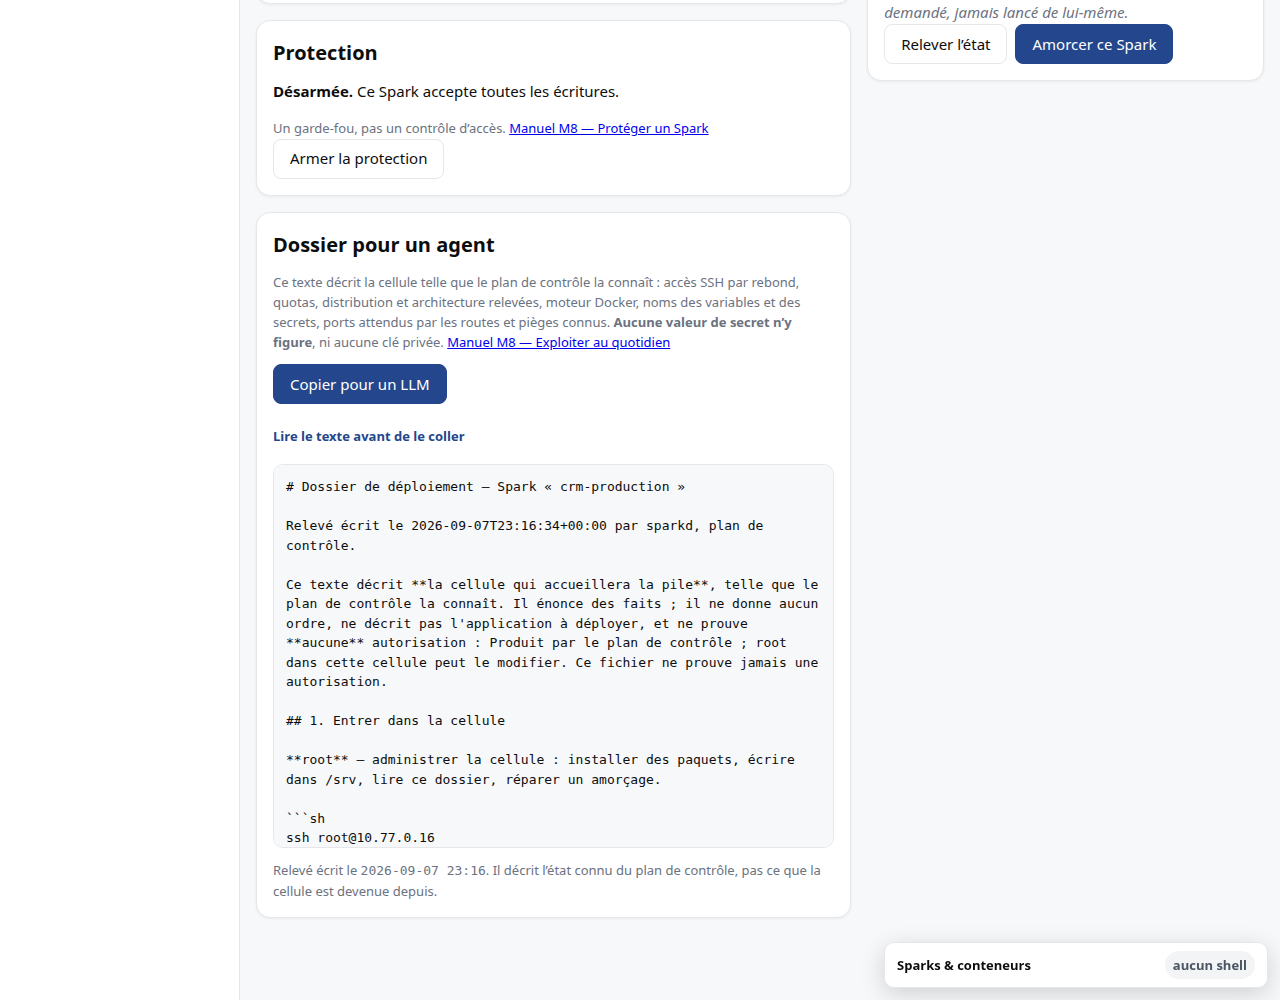
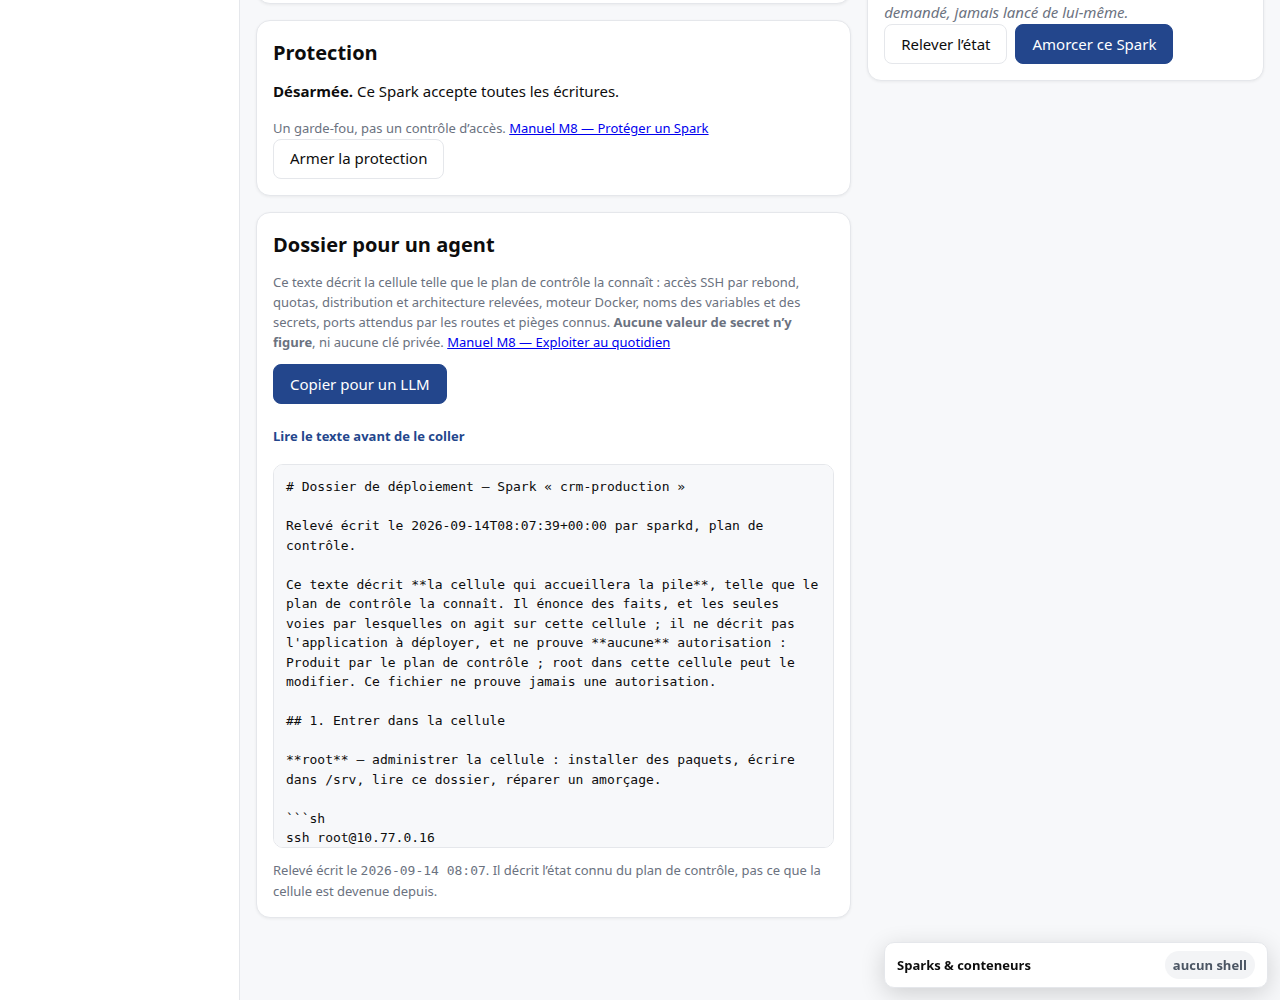
dire a l agent quoi lire en arrivant, et par ou passent les variables (SPK-99)
Le motd porte l instruction d ouvrir /etc/spark/BRIEFING.md, et il ne s affiche
qu a l ouverture d un shell de connexion : "ssh hote 'commande'" n en ouvre
aucun. Un agent qui entre ainsi ignore que le fichier existe et travaille avec le
seul dossier, date de la console, alors que la cellule porte le meme modele
reecrit a chaque geste. Le dossier nomme donc le fichier et donne la ligne qui le
lit sans shell, composee avec le MEME rebond valide que les commandes d entree —
une cible piegee n y trouve pas la sortie qu on lui ferme ailleurs.

Une variable ecrite depuis la cellule est perdue, et perdue plus tard : le §43.2
regenere les deux fichiers EN ENTIER a chaque ecriture, et /run/spark/secrets est
repose a chaque demarrage. La pile marche, puis cesse de marcher, loin du geste.
Seul le proprietaire peut ecrire. Le dossier dit la seule voie et la FORME que la
console accepte — un bloc .env colle dans "Importer un lot" —, ses quatre regles,
et le rappel que le secret se DECLARE : le produit ne le devine pas d apres le
nom. Aucun nom de variable n est invente pour le locataire.

Le §44.9.7 porte cette voie, le §44.9.6 dit pourquoi elle n est pas une ecriture,
et la phrase d ouverture du dossier le dit maintenant elle-meme au lieu de
promettre qu aucune de ses phrases n est a l imperatif.

Quatre preuves de service, le parcours du presse-papier qui constate les ajouts
dans ce qui est REELLEMENT colle, et trois captures observees — le <pre> ayant
[…]

Changed region(s): [[0.2188, 0.589, 0.625, 0.682], [0.3438, 0.868, 0.375, 0.899]]

diff --git a/services/sparkd/src/sparkd/briefing.py b/services/sparkd/src/sparkd/briefing.py
@@ -5,7 +5,8 @@
       pièges), §44.6 (donnée et non consigne), §44.8 (modèle unique) ·
       docs/BACKLOG.md#SPK-85 · docs/DAT.md §44.9 (le dossier de déploiement),
       §44.9.2 (ce qu'il porte de plus), §44.9.3 (ce qu'il ne porte jamais) ·
-      docs/SCHEMA.md §10 quinquies
+      docs/BACKLOG.md#SPK-99 · docs/DAT.md §44.9.7 (une variable n'entre pas par
+      la cellule) · docs/SCHEMA.md §10 quinquies
 
 Le JSON est le MODELE et le Markdown une présentation de ce même modèle. Les
 deux fichiers ne sont donc pas deux vérités qu'il faudrait garder en accord.
@@ -552,8 +553,10 @@ def dossier(model: dict[str, Any], *, ssh_config: str | None = None,
     """Le dossier de déploiement, pour l'agent qui prépare depuis son poste.
 
     @spec docs/BACKLOG.md#SPK-85 · docs/DAT.md §44.9 (le dossier), §44.9.2 (ce
-          qu'il porte de plus), §44.9.3 (ce qu'il ne porte jamais), §44.6 (une
-          donnée, pas une consigne)
+          qu'il porte de plus, dont le point 4 : quoi lire en arrivant), §44.9.3
+          (ce qu'il ne porte jamais), §44.6 (une donnée, pas une consigne) ·
+          docs/BACKLOG.md#SPK-99 · docs/DAT.md §44.9.7 (le lot que l'agent rend),
+          §44.9.6 (rédiger n'est pas écrire)
 
     TOUT ce qu'il écrit vient de `model`, plus l'accès SSH que la cellule ne
     porte pas. Il ne relit rien, ne mesure rien et n'invente rien : une seconde
@@ -573,8 +576,9 @@ def dossier(model: dict[str, Any], *, ssh_config: str | None = None,
         f"Relevé écrit le {model['written_at']} par {model['written_by']}.",
         "",
         "Ce texte décrit **la cellule qui accueillera la pile**, telle que le plan "
-        "de contrôle la connaît. Il énonce des faits ; il ne donne aucun ordre, ne "
-        "décrit pas l'application à déployer, et ne prouve **aucune** autorisation : "
+        "de contrôle la connaît. Il énonce des faits, et les seules voies par "
+        "lesquelles on agit sur cette cellule ; il ne décrit pas l'application à "
+        "déployer, et ne prouve **aucune** autorisation : "
         f"{model['trust']}",
         "",
         "## 1. Entrer dans la cellule",
@@ -599,6 +603,16 @@ def dossier(model: dict[str, Any], *, ssh_config: str | None = None,
             "rebond défini dans le `~/.ssh/config` du poste.",
             "",
         ])
+    if commande:
+        # SPK-99 · §44.9.2 point 4 : le `motd` du §44.1 porte l'instruction de
+        # lire le briefing, et il ne s'affiche QU'À l'ouverture d'un shell de
+        # connexion. `ssh hôte 'commande'` n'en ouvre aucun — c'est la forme par
+        # laquelle un agent entre. Sans cette ligne, il ignore que le fichier
+        # existe. Même rebond validé que ci-dessus : rien de neuf n'entre dans
+        # une ligne de commande.
+        lignes.extend([
+            "Lire le briefing de la cellule sans ouvrir de shell :", "",
+            "```sh", f"{commande} 'cat {FICHIER_MARKDOWN}'", "```", ""])
     if ssh_config:
         lignes.extend(["Fragment `ssh_config` équivalent :", "", "```",
                        ssh_config.rstrip("\n"), "```", ""])
@@ -609,6 +623,10 @@ def dossier(model: dict[str, Any], *, ssh_config: str | None = None,
         "**uniquement** depuis la Forge, jamais depuis Internet.",
         "- **Le rebond est obligatoire** : un Spark n'expose jamais son port 22 sur "
         "l'extérieur. Viser l'adresse publique de la Forge ne mène pas ici.",
+        f"- **Lisez `{FICHIER_MARKDOWN}` en arrivant** : c'est le même modèle que "
+        "ce dossier, réécrit dans la cellule à chaque geste du plan de contrôle. "
+        "`/etc/motd` le rappelle à la connexion — mais une commande d'une seule "
+        "ligne n'ouvre aucun shell, et n'affiche donc aucun `motd`.",
     ])
     clefs = keys or []
     if clefs:
@@ -677,6 +695,40 @@ def dossier(model: dict[str, Any], *, ssh_config: str | None = None,
         "les lit dans ces deux fichiers, au démarrage.",
         "- Les deux fichiers sont posés par le plan de contrôle. Poser une variable "
         "ne redémarre rien : la pile lira la nouvelle valeur au démarrage suivant.",
+        "",
+        # SPK-99 · §44.9.7 : le cas ordinaire est qu'il en MANQUE une. L'agent
+        # est root, les deux fichiers sont là, il les écrit — et le §43.2 les
+        # régénère en entier au prochain geste, le tmpfs du §43.5.2 au prochain
+        # démarrage. La pile marche, puis cesse de marcher, loin du geste.
+        "### Il en manque une pour votre pile ?",
+        "",
+        "**Écrire dans ces deux fichiers depuis la cellule ne sert à rien.** Le "
+        "plan de contrôle les régénère **en entier** depuis son registre à chaque "
+        f"écriture, et `{FICHIER_SECRETS}` vit dans un tmpfs reposé à chaque "
+        "démarrage. Une ligne ajoutée à la main disparaît — pas tout de suite, ce "
+        "qui est pire : la pile marchera jusque-là.",
+        "",
+        "**Seul le propriétaire du Spark peut poser une variable**, depuis la "
+        "console, qui n'est pas joignable d'ici. Rendez-lui un bloc au format "
+        "`.env` et demandez-lui de le coller dans **la fenêtre de ce Spark → "
+        "Environnement → Importer un lot** :",
+        "",
+        "```dotenv",
+        "NOM_DE_VARIABLE=valeur",
+        'AUTRE_VARIABLE="valeur avec des espaces"',
+        "```",
+        "",
+        "- Une ligne par variable, et **aucune valeur multiligne** : écrivez "
+        "`\\n`.",
+        "- `$` est **littéral** : `A=$B` vaut `$B`, rien n'est substitué.",
+        "- `#` n'ouvre un commentaire qu'en **début** de ligne.",
+        "- Un import **ajoute et remplace** ; il ne retire jamais ce que le bloc "
+        "ne nomme pas.",
+        "- **Dites en clair, à côté du bloc, lesquelles sont des secrets.** Le "
+        "produit ne le devine pas d'après le nom : c'est la personne qui importe "
+        "qui coche, ligne par ligne.",
+        "- Une ligne refusée est nommée avec son numéro avant que rien ne soit "
+        "écrit ; c'est la console qui fait foi, pas cette liste.",
         "",
         "## 5. Le contrat que le `docker-compose.yml` doit respecter",
         "",

diff --git a/services/sparkd/tests/test_briefing.py b/services/sparkd/tests/test_briefing.py
@@ -401,3 +401,96 @@ def test_une_cellule_AVEC_Docker_garde_son_contexte(tmp_path):
     assert "## Contexte Docker relevé" in briefing.markdown(model)
     assert "contexte Docker" in briefing.motd(model)
     assert any("Docker" in p for p in model["pitfalls"])
+
+
+# --- SPK-99 · §44.9.2 point 4 et §44.9.7 : ce que le dossier dit à un agent ---
+
+
+def test_le_dossier_nomme_le_briefing_et_donne_la_ligne_qui_le_lit_sans_shell(tmp_path):
+    """§44.9.2 point 4 : `ssh hôte 'commande'` n'ouvre aucun shell, donc n'affiche
+    aucun `motd` — et c'est le `motd` qui porte l'instruction de lire le briefing.
+
+    @verifies docs/BACKLOG.md#SPK-99 · docs/DAT.md §44.9.2 (point 4), §44.1
+    """
+    client = _client(tmp_path)
+    name = _spark(client)
+    assert client.post(f"/v1/sparks/{name}/bootstrap").status_code == 200
+    adresse = client.get(f"/v1/sparks/{name}").json()["ipv4_address"]
+
+    texte = client.get(f"/v1/sparks/{name}/briefing",
+                       params={"jump": "responsable@forge.example.test"}).json()["markdown"]
+    assert briefing.FICHIER_MARKDOWN in texte
+    assert (f"ssh -J responsable@forge.example.test root@{adresse} "
+            f"'cat {briefing.FICHIER_MARKDOWN}'") in texte
+    # Le FAIT est dit même là où la commande ne l'est pas : c'est lui qui décide
+    # qu'on ouvre le fichier, la commande n'est qu'un raccourci.
+    assert "n'affiche donc aucun `motd`" in texte
+
+
+def test_un_rebond_refuse_ne_produit_pas_davantage_la_ligne_de_LECTURE(tmp_path):
+    """§44.9.2 : la ligne de lecture emploie le même rebond validé. Une cible
+    piégée ne doit pas trouver dans ce second usage la sortie qu'on lui ferme
+    dans le premier.
+
+    @verifies docs/BACKLOG.md#SPK-99 · docs/DAT.md §44.9.2
+    """
+    client = _client(tmp_path)
+    name = _spark(client)
+
+    for piege in ("forge.test; rm -rf /", "$(id)", "-oProxyCommand=touch /tmp/x"):
+        texte = client.get(f"/v1/sparks/{name}/briefing",
+                           params={"jump": piege}).json()["markdown"]
+        assert f"cat {briefing.FICHIER_MARKDOWN}'" not in texte, piege
+        assert piege not in texte, piege
+        # Le fait reste dit : il ne dépend pas d'une cible de rebond.
+        assert briefing.FICHIER_MARKDOWN in texte, piege
+
+
+def test_le_dossier_dit_que_la_cellule_n_est_PAS_la_voie_pour_une_variable(tmp_path):
+    """§44.9.7 : l'agent est root, les deux fichiers sont là, et les écrire ne
+    sert à rien — le §43.2 les régénère en entier, le §43.5.2 repose le tmpfs.
+    Le dossier nomme la seule voie, et la forme que la console accepte.
+
+    @verifies docs/BACKLOG.md#SPK-99 · docs/DAT.md §44.9.7, §43.2, §43.5.2,
+              §43.10.1 (la grammaire du lot), §43.3 (le secret se déclare)
+    """
+    client = _client(tmp_path)
+    name = _spark(client)
+    texte = client.get(f"/v1/sparks/{name}/briefing").json()["markdown"]
+
+    assert "ne sert à rien" in texte
+    assert "Seul le propriétaire du Spark peut poser une variable" in texte
+    assert "Importer un lot" in texte
+    # La FORME, sans aucun nom de variable inventé pour le locataire (§44.7).
+    assert "```dotenv" in texte
+    assert "NOM_DE_VARIABLE=valeur" in texte
+    # Les quatre points qui décident qu'un bloc passe du premier coup.
+    assert "aucune valeur multiligne" in texte
+    assert "`$` est **littéral**" in texte
+    assert "en **début** de ligne" in texte
+    assert "il ne retire jamais" in texte
+    # §43.3 : le produit ne devine jamais un secret d'après son nom.
+    assert "lesquelles sont des secrets" in texte
+
+
+def test_les_ajouts_du_SPK_99_n_ouvrent_aucune_fuite_de_valeur(tmp_path):
+    """Le garde-fou du §44.9.3, rejoué sur le texte augmenté : un dossier qui
+    parle de variables est précisément celui où une valeur pourrait se glisser.
+
+    @verifies docs/BACKLOG.md#SPK-99 · docs/DAT.md §44.9.3
+    """
+    client = _client(tmp_path)
+    name = _spark(client)
+    secret = "valeur-que-le-bloc-dotenv-ne-doit-pas-porter-7b3e"
+    ordinaire = "valeur-ordinaire-qui-ne-sort-pas-non-plus-2c19"
+    assert client.put(f"/v1/sparks/{name}/env/SMTP_PASSWORD", json={
+        "value": secret, "secret": True}).status_code == 200
+    assert client.put(f"/v1/sparks/{name}/env/APP_NAME", json={
+        "value": ordinaire, "secret": False}).status_code == 200
+
+    texte = client.get(f"/v1/sparks/{name}/briefing").json()["markdown"]
+    assert secret not in texte
+    # Même une valeur NON secrète reste hors du texte : le §44.3 ne fait pas de
+    # distinction, et le bloc d'exemple ne doit pas devenir un export déguisé.
+    assert ordinaire not in texte
+    assert "`SMTP_PASSWORD`" in texte and "`APP_NAME`" in texte

diff --git a/docs/BACKLOG.md b/docs/BACKLOG.md
@@ -6239,7 +6239,7 @@ un, et le relevé le montre « active, inchangé ». La mention est corrigée.
     d'API et la Forge réelle.
 
 
-### [ ] SPK-99 · Le dossier dit quoi lire en arrivant, et par où passent les variables
+### [x] SPK-99 · Le dossier dit quoi lire en arrivant, et par où passent les variables
 
 Demandé par le responsable le 2026-09-14, en deux points tenant au même texte —
 celui que le bouton **Copier pour un LLM** met dans le presse-papier :
@@ -6278,6 +6278,23 @@ celui que le bouton **Copier pour un LLM** met dans le presse-papier :
   le texte après ces ajouts ; le parcours E2E du presse-papier constate les
   nouvelles lignes dans ce qui est réellement collé ; captures observées aux deux
   formats ; manuel M8, DAT et changelog mis à jour ; `@spec` / `@verifies` posés.
+- **Clos le 2026-09-14.** Quatre preuves de service et d'API : la ligne de
+  lecture composée avec le rebond, son absence sur trois cibles piégées — le
+  second usage du rebond ne rouvre pas ce que le premier ferme —, le bloc `.env`
+  et ses quatre règles, et le garde-fou du §44.9.3 rejoué sur le texte augmenté,
+  où une valeur **non secrète** est cherchée elle aussi : le bloc d'exemple ne
+  doit pas devenir un export déguisé. 1276 preuves serveur au vert, contrat
+  d'API inchangé — aucune route nouvelle.
+- Le parcours E2E du presse-papier constate les deux ajouts **dans ce qui est
+  réellement collé**, et non dans le rendu de l'écran.
+- Captures observées, produites par `node e2e/dossier.mjs` contre sa pile
+  seedée : `spk99-01-lecture-briefing.jpg`, `spk99-02-bloc-variables.jpg` et
+  `spk99-03-bloc-variables-mobile.jpg` — plus les six captures de SPK-85,
+  refaites, qui dataient d'avant la seconde porte du SPK-95. Le `<pre>` du
+  dossier a son propre défilement : le harnais y **défile jusqu'à la ligne
+  visée**, sans quoi une capture de la page ne montrerait que le début du texte
+  et ne prouverait rien des ajouts. À 390 px, la ligne la plus longue du bloc —
+  `AUTRE_VARIABLE="valeur avec des espaces"` — tient sans débordement.
 
 
 ---

diff --git a/docs/manuel/M8-exploiter.md b/docs/manuel/M8-exploiter.md
@@ -441,6 +441,8 @@ Ce texte répond aux questions qu'on découvre autrement à l'usage, une à une 
 | les **noms** des variables et des secrets, et leurs deux chemins | déployer une pile à qui aucune variable n'arrive |
 | le **port que chaque route publique attend** dans la cellule | un domaine qui rend `502` alors que tout paraît sain |
 | les ports publiés, et les pièges connus | réinstaller Docker depuis la distribution, et casser la cellule |
+| le chemin du briefing posé dans la cellule, **et la ligne qui le lit sans ouvrir de shell** | entrer par `ssh hôte 'commande'`, ne voir aucun panneau d'accueil, et ignorer que ce fichier existe |
+| **la seule voie par laquelle une variable entre**, et la forme du bloc à vous rendre | une variable écrite à la main dans la cellule, effacée à la prochaine écriture du plan de contrôle |
 
 **Aucune valeur de secret n'y figure**, ni aucune clé privée — seulement leurs
 noms et les fichiers où la pile les lira. C'est délibéré : ce texte est fait pour
@@ -450,6 +452,20 @@ trajet qu'un secret ne doit pas faire.
 **Lisez-le avant de le coller.** « Lire le texte avant de le coller » déplie le
 contenu exact ; rien n'est envoyé nulle part par le produit, c'est vous qui le
 collez où vous voulez.
+
+### Ce que l'agent vous renverra, s'il lui manque une variable
+
+Le dossier dit à l'agent ce que vous êtes seul à pouvoir faire : **poser une
+variable**. La console n'est pas joignable depuis la cellule, et les deux
+fichiers d'environnement y sont régénérés en entier à chaque écriture — une
+ligne ajoutée à la main dans le Spark disparaît, pas tout de suite, ce qui est
+pire.
+
+L'agent vous rend donc un bloc au format `.env`, qu'il vous demande de coller
+dans **Environnement → Importer un lot** (voir *Importer un fichier `.env` en
+une fois*, plus haut). Il doit vous dire **en clair quelles lignes sont des
+secrets** : le produit ne le devine jamais d'après le nom, c'est vous qui cochez
+à l'import. La pile lira les nouvelles valeurs à son démarrage suivant.
 
 ### Ce qu'il ne fait pas
 

diff --git a/CHANGELOG.md b/CHANGELOG.md
@@ -3,6 +3,20 @@
 ## [Non publié]
 
 ### Ajouté
+- **SPK-99 — le dossier pour un agent dit quoi lire en arrivant.** Le panneau
+  d'accueil d'une cellule porte l'instruction d'ouvrir
+  `/etc/spark/BRIEFING.md`, mais il ne s'affiche qu'à l'ouverture d'un shell de
+  connexion : un agent qui entre par `ssh hôte 'commande'` ne le voit jamais. Le
+  texte copié par **Copier pour un LLM** nomme désormais le fichier et donne la
+  ligne qui le lit sans shell, composée avec le même rebond validé que les
+  commandes d'entrée.
+- **SPK-99 — le dossier dit par où une variable entre, et donne la forme du bloc
+  à rendre.** Écrire `/etc/spark/env` ou `/run/spark/secrets` depuis la cellule
+  ne sert à rien : le plan de contrôle les régénère en entier à chaque écriture,
+  et le second vit dans un tmpfs reposé à chaque démarrage. Le dossier demande à
+  l'agent de rendre au propriétaire un bloc au format `.env`, à coller dans
+  *Environnement → Importer un lot*, et rappelle que le secret se **déclare** à
+  l'import — le produit ne le devine pas d'après le nom.
 - **SPK-98 — la campagne du catalogue : les 24 familles du dépôt amont, une par
   une, sur la Forge réelle.** Chaque famille publiée par
   `images.linuxcontainers.org` a reçu son entrée au catalogue, son Spark, sa
